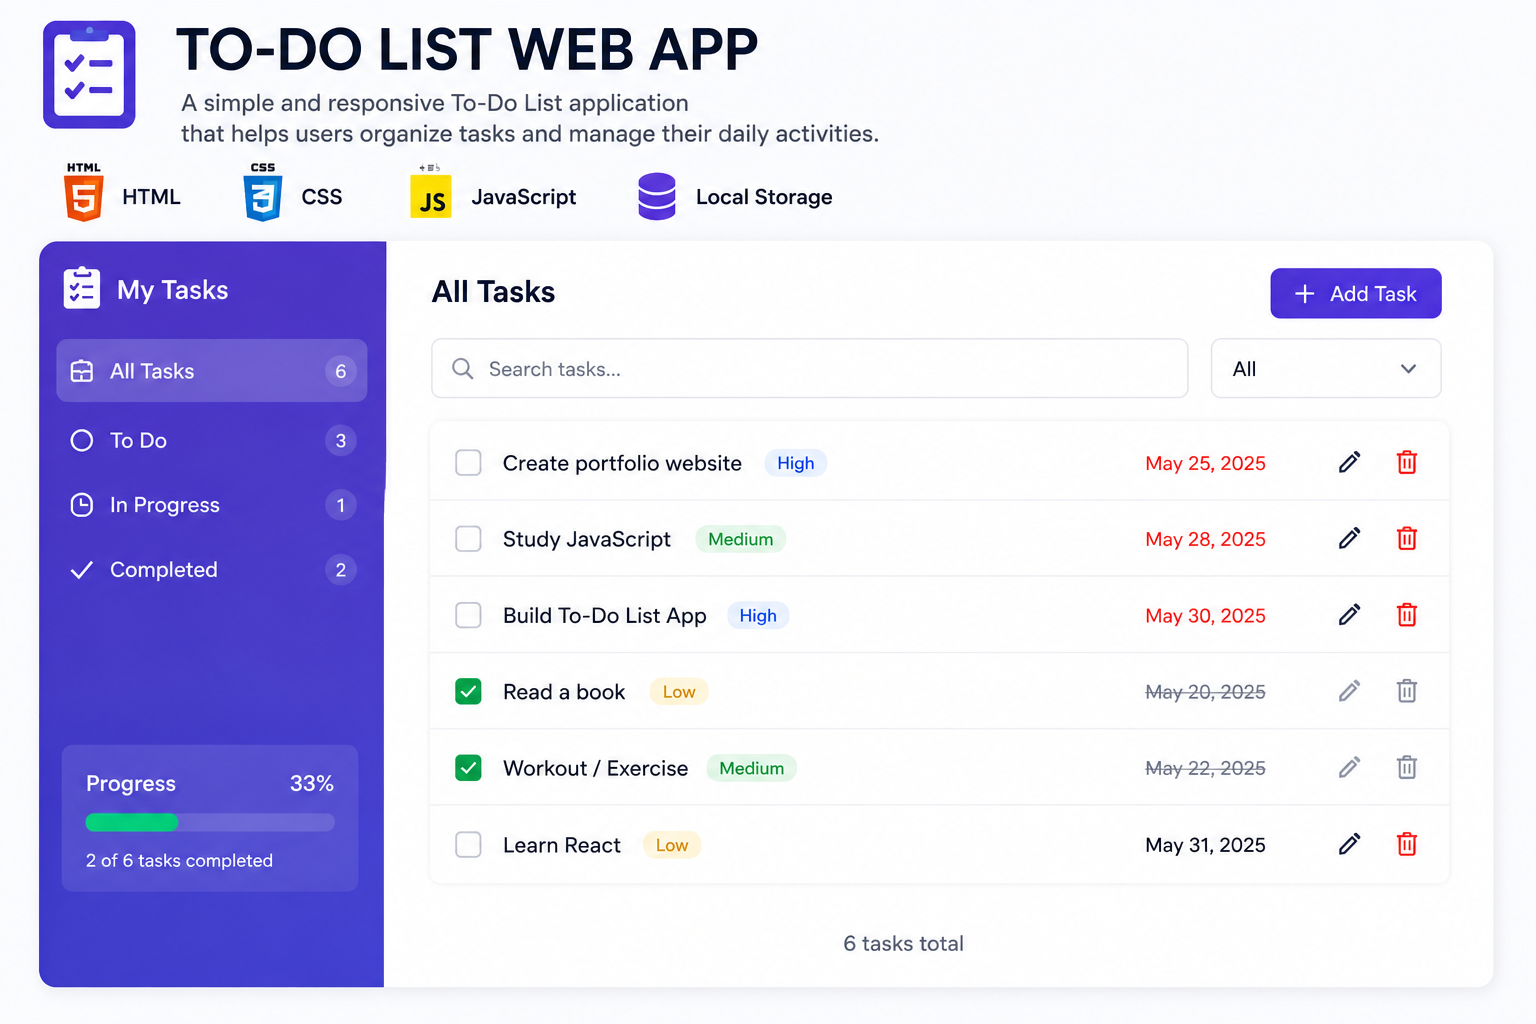
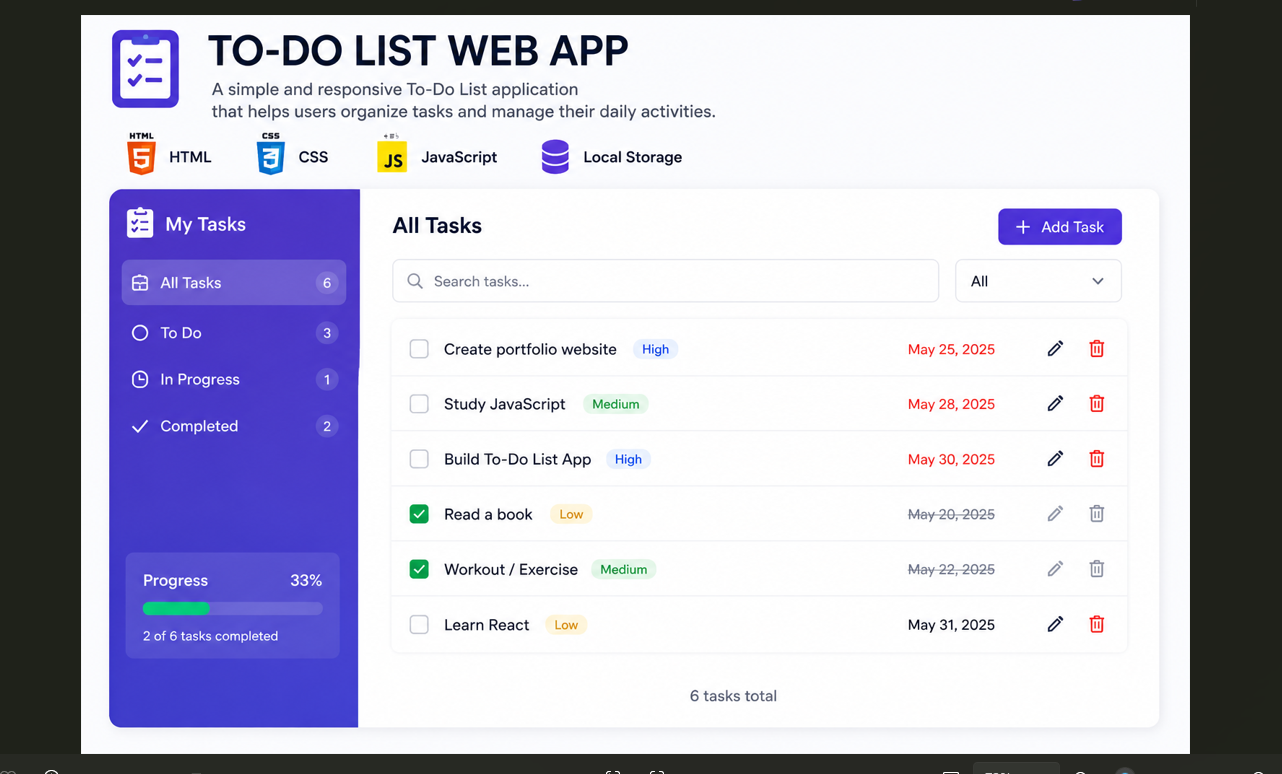
Update portfolio projects and replace todo images

diff --git a/index.html b/index.html
@@ -132,7 +132,7 @@
                 <!-- Project 1 -->
                 <div class="project-card">
                     <div class="project-image">
-                        <img src="portfolio-proj.jpg" alt="Portfolio Website">
+                        <img src="portfolio-proj.png" alt="Portfolio Website">
                     </div>
                     <div class="project-info">
                         <h3>Personal Portfolio Website</h3>
@@ -147,7 +147,7 @@
                 <!-- Project 2 -->
                 <div class="project-card">
                     <div class="project-image">
-                        <img src="todo.jpg" alt="To-Do List App">
+                        <img src="to-do.png" alt="To-Do List App">
                     </div>
                     <div class="project-info">
                         <h3>To-Do List Application</h3>

diff --git a/projects.html b/projects.html
@@ -53,7 +53,7 @@
                 <!-- Project 2 -->
                 <div class="project-card">
                     <div class="project-image">
-                        <img src="todo.jpg" alt="To-Do List App">
+                        <img src="to-do.png" alt="To-Do List App">
                     </div>
                     <div class="project-info">
                         <h3>To-Do List Application</h3>